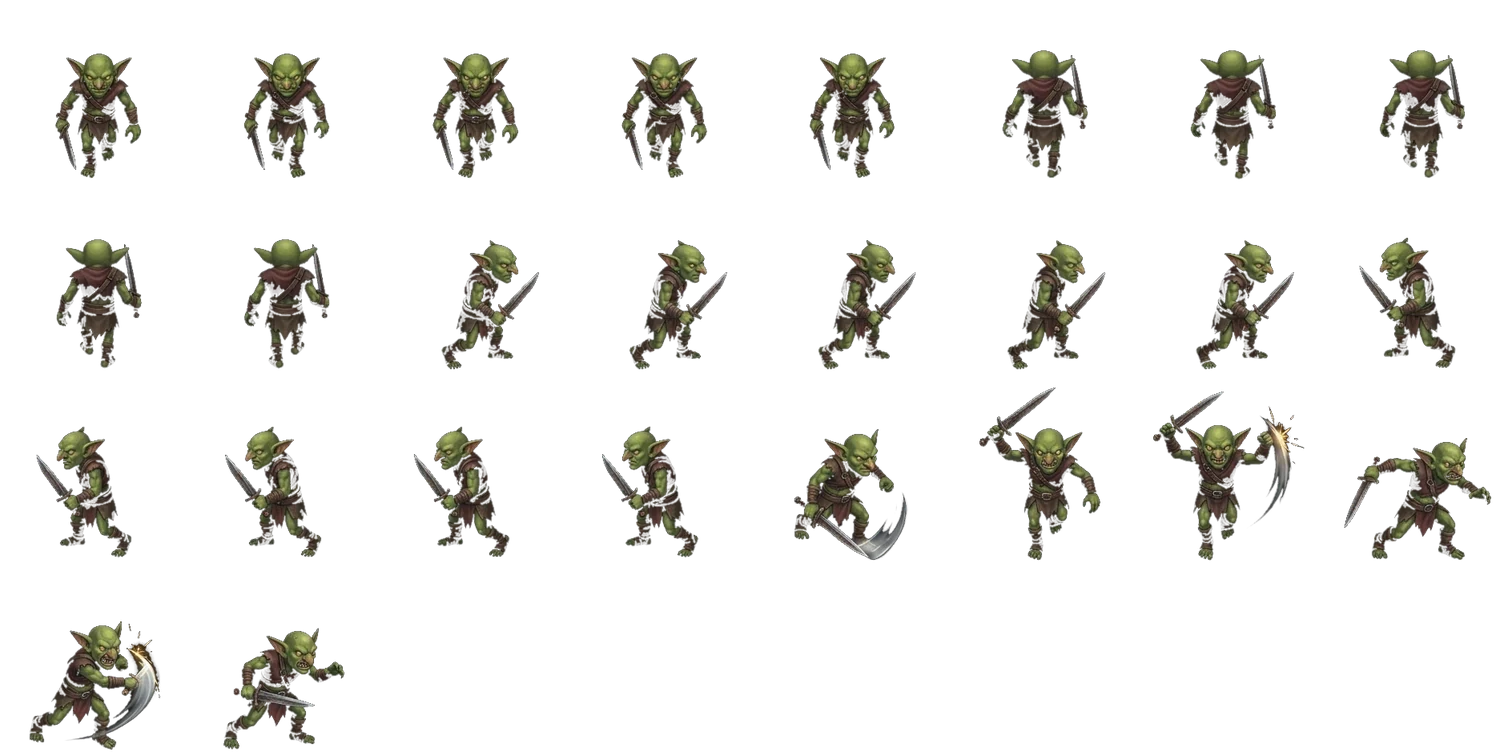
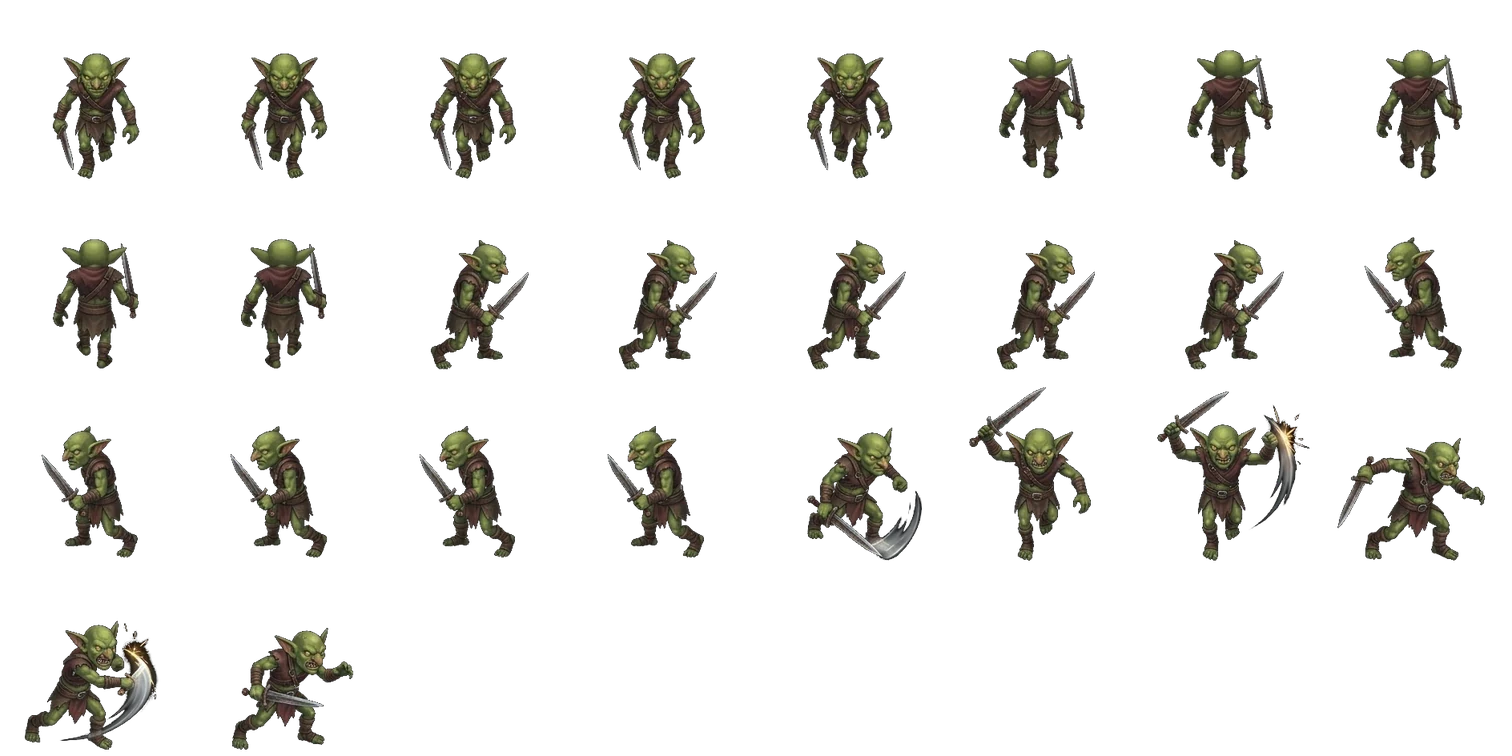
Thornbound: fix knight movement and sprite cleanup
- Solid characters use a short alpha ramp, so dark armour, greaves and
  boots are opaque instead of half see-through (the knight's legs were
  barely visible)
- Each walk row is centred on the body, so turning no longer makes
  characters jump sideways
- Slivers of neighbouring frames are trimmed from each frame
- Only the wizard uses a casting pose when shooting; sword-and-shield
  heroes keep their stance instead of flashing slash poses
- Heavier step bounce and sway for the knight and skeleton, whose walk
  frames barely change in the art

Claude-Session: https://claude.ai/code/session_01Aavfh1172mrmwZgbj7YUKd

diff --git a/thornbound/game.js b/thornbound/game.js
@@ -214,10 +214,13 @@ function poseFrame(S, face, flip, anim, moving, pose) {
 }
 // A small bounce and sway on every step, so walking always reads as walking even where
 // neighbouring frames in the art are nearly the same.
-function stepMotion(anim, moving) {
+// Armoured characters get a heavier stomp, since their walk frames barely change.
+const STEP = { knight: [2.4, 0.07], skeleton: [1.9, 0.055] };
+function stepMotion(anim, moving, kind) {
   if (!moving) return [0, 0];
+  const [lift, sway] = STEP[kind] || [1.4, 0.045];
   const s = Math.sin(anim * Math.PI * 0.8);
-  return [-Math.abs(s) * 1.4, s * 0.045];
+  return [-Math.abs(s) * lift, s * sway];
 }
 function glowSprite(r, color) {
   const c = mk(r * 2, r * 2), x = c.getContext('2d');
@@ -1534,8 +1537,10 @@ function drawPlayer() {
   if (p.inv > 0 && Math.floor(p.inv * 14) % 2 === 0 && !G.dying) return;
   const moving = hyp(p.vx, p.vy) > 8;
   // the casting pose only shows when standing still, so the legs keep walking while shooting
-  const [name, mirror] = poseFrame(S, p.face, p.flip, p.anim, moving, p.castT > 0 && !moving && p.face !== 'up' ? 2 : 0);
-  const [bob, tilt] = stepMotion(p.anim, moving);
+  // only the wizard has a casting pose; sword-and-shield heroes keep their stance when shooting
+  const cast = p.castT > 0 && !moving && p.face !== 'up' && S.kind === 'wizard';
+  const [name, mirror] = poseFrame(S, p.face, p.flip, p.anim, moving, cast ? 2 : 0);
+  const [bob, tilt] = stepMotion(p.anim, moving, S.kind);
   ctx.save();
   if (G.dying) ctx.globalAlpha = clamp(G.dying / 1.4, 0, 1);
   drawFrame(S, name, p.x, p.y + p.r * 0.6 + bob, mirror, 0, tilt);
@@ -1545,7 +1550,7 @@ function drawEnemy(e) {
   const S = e.sheet; if (!S) return;
   const moving = e.d.flying || hyp(e.vx, e.vy) > 8;
   const [name, mirror] = poseFrame(S, e.face, e.flip, e.anim, moving, e.pose);
-  const [bob, tilt] = e.d.flying || e.pose ? [0, 0] : stepMotion(e.anim, moving);
+  const [bob, tilt] = e.d.flying || e.pose ? [0, 0] : stepMotion(e.anim, moving, S.kind);
   const fy = e.y + e.r * 0.6 + (e.d.flying ? Math.sin(G.time * 3 + e.phase) * 2 - 3 : bob);
   ctx.save();
   ctx.globalAlpha = (e.d.alpha || 1) * e.alpha;

diff --git a/thornbound/sw.js b/thornbound/sw.js
@@ -1,5 +1,5 @@
 // Offline cache for Thornbound. Bump VERSION whenever any cached file changes.
-const VERSION = 'thornbound-v5';
+const VERSION = 'thornbound-v6';
 const ASSETS = ['./', './index.html', './game.js', './manifest.webmanifest', './icon-180.png', './icon-192.png', './icon-512.png',
   './assets/wizard@0.44.webp', './assets/knight@0.44.webp', './assets/skeleton@0.44.webp', './assets/goblin@0.44.webp', './assets/goblin@0.8.webp',
   './assets/ghost@0.44.webp', './assets/ghost@0.8.webp', './assets/crystal32.webp', './assets/crystal64.webp', './assets/crystal160.webp',

diff --git a/thornbound/tools/build_assets.py b/thornbound/tools/build_assets.py
@@ -20,12 +20,17 @@ CELL_W, CELL_H, FOOT = 236, 236, 8         # source-pixel cell; feet sit FOOT px
 COLS = 8
 
 
-def cutout(img, bg='black'):
+# Glowing art (ghosts, the crystal) keeps a long soft ramp so its glow fades out; solid
+# characters use a short ramp so dark armour and boots stay opaque instead of see-through.
+GLOWY = {'ghost', 'crystal'}
+
+
+def cutout(img, bg='black', glow=True):
     """RGB image on a flat background -> RGBA with soft edges and solid interiors."""
     rgb = np.asarray(img.convert('RGB')).astype(np.float32)
     if bg == 'black':
         level = rgb.max(axis=2)
-        soft = np.clip((level - 14) / 70, 0, 1)
+        soft = np.clip((level - 14) / 70, 0, 1) if glow else np.clip((level - 9) / 24, 0, 1)
         near_bg = level < 22
     else:  # white
         level = 255 - rgb.min(axis=2)
@@ -33,7 +38,7 @@ def cutout(img, bg='black'):
         near_bg = level < 18
     # Solid core = clearly bright pixels plus any dim pixels they enclose (dark armour).
     # Dim glow connected to the outside stays soft; true-black pockets stay see-through.
-    core = Image.fromarray(np.where(level >= 50, 255, 0).astype(np.uint8)).copy()  # copy: fromarray views are read-only
+    core = Image.fromarray(np.where(level >= (50 if glow else 28), 255, 0).astype(np.uint8)).copy()  # copy: fromarray views are read-only
     w, h = core.size
     for seed in [(0, 0), (w - 1, 0), (0, h - 1), (w - 1, h - 1)]:
         if core.getpixel(seed) == 0:
@@ -49,15 +54,48 @@ def cutout(img, bg='black'):
     return Image.fromarray(out, 'RGBA')
 
 
+def keep_main_body(zone):
+    """Erase slivers of neighbouring frames: keep only the column span holding most of the figure."""
+    a = np.asarray(zone).copy()
+    cols = a[..., 3].astype(np.float32).sum(axis=0)
+    filled = cols > 255 * 2
+    spans, start = [], None
+    for x, f in enumerate(list(filled) + [False]):
+        if f and start is None: start = x
+        if not f and start is not None: spans.append([start, x]); start = None
+    merged = []
+    for sp in spans:  # bridge small gaps (a sword held slightly apart from the body)
+        if merged and sp[0] - merged[-1][1] <= 6: merged[-1][1] = sp[1]
+        else: merged.append(sp)
+    if not merged:
+        return zone
+    main = max(merged, key=lambda sp: cols[sp[0]:sp[1]].sum())
+    a[:, :main[0]] = 0; a[:, main[1]:] = 0
+    return Image.fromarray(a, 'RGBA')
+
+
+def torso_x(img):
+    """Horizontal centre of the body, measured on the middle band so weapons and capes don't pull it."""
+    a = np.asarray(img)[..., 3]
+    ys, xs = np.nonzero(a > 128)
+    if not len(xs):
+        return img.width / 2
+    top, bot = ys.min(), ys.max()
+    band = (ys > top + (bot - top) * 0.35) & (ys < top + (bot - top) * 0.75)
+    return float(np.median(xs[band] if band.any() else xs))
+
+
 def frames_of(sheet):
-    """Yield (name, cell image) for every frame, feet anchored at the cell's bottom centre."""
+    """Yield (name, cell image) for every frame, feet anchored at the cell's bottom centre and each
+    row centred on the body, so turning around doesn't make the character jump sideways."""
     out = []
     for r, name in enumerate(['down', 'up', 'right', 'left']):
         b = WALK_BOTTOM[r]
-        for i, cx in enumerate(WALK_X):
-            zone = sheet.crop((cx - 93, b - ROW_H, cx + 93, b))
+        zones = [keep_main_body(sheet.crop((cx - 93, b - ROW_H, cx + 93, b))) for cx in WALK_X]
+        centre = sum(torso_x(z) for z in zones) / len(zones)   # one offset per row: no jitter between frames
+        for i, zone in enumerate(zones):
             cell = Image.new('RGBA', (CELL_W, CELL_H))
-            cell.paste(zone, (CELL_W // 2 - 93, CELL_H - FOOT - ROW_H), zone)
+            cell.paste(zone, (round(CELL_W / 2 - centre), CELL_H - FOOT - ROW_H), zone)
             out.append((f'{name}{i}', cell))
     for c, (x0, x1) in enumerate(ATK_COLS):
         for r, (y0, y1) in enumerate(ATK_ROWS):
@@ -67,7 +105,7 @@ def frames_of(sheet):
                 continue
             piece = zone.crop(bbox)
             cell = Image.new('RGBA', (CELL_W, CELL_H))
-            px = CELL_W // 2 - (bbox[2] - bbox[0]) // 2
+            px = round(CELL_W / 2 - torso_x(piece))
             py = CELL_H - FOOT - (bbox[3] - bbox[1])
             cell.paste(piece, (px, max(0, py)), piece)
             out.append((f'{"AB"[c]}{r + 1}', cell))
@@ -75,7 +113,7 @@ def frames_of(sheet):
 
 
 def atlas(name, scales):
-    sheet = cutout(Image.open(f'{SRC}/{name}-sheet.jpg'))
+    sheet = cutout(Image.open(f'{SRC}/{name}-sheet.jpg'), glow=name in GLOWY)
     frames = frames_of(sheet)
     meta = {'frames': [n for n, _ in frames], 'cols': COLS}
     for s in scales:
